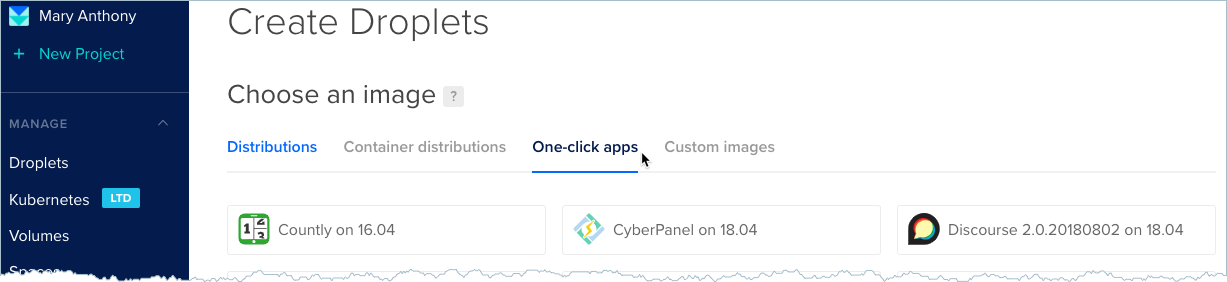
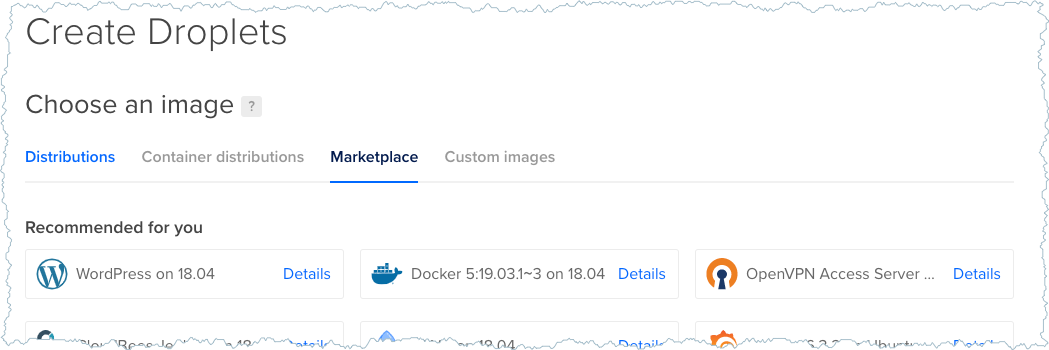
Added steps for granting read permission to space Carries and closes #426

diff --git a/_storage/digital-ocean-deploy.md b/_storage/digital-ocean-deploy.md
@@ -6,9 +6,9 @@ permalink: /:collection/:path.html
 # Configure a hub on DigitalOcean
 {:.no_toc}
 
-This teaches you how to run a Gaia storage hub on DigitalOcean (DO). DigitalOcean is an affordable and convenient cloud computing provider. This example uses DigitalOcean Spaces for file storage. DigitalOcean Spaces is equivalent to AWS's S3 file storage solution.
+This teaches you how to run a Gaia storage hub on DigitalOcean (DO). DigitalOcean is an affordable and convenient cloud computing provider. This example uses DigitalOcean Spaces for file storage. A space is equivalent to AWS's S3 file storage solution.
 
-DigitalOcean provides you with a compute machines known as a **Droplets** and  storage called a **Spaces**. You need both to run a Gaia hub. The Gaia hub setup you create here, requires get a Digital Droplet with Docker pre-installed and a 250 GB Space. Each run for $5/month or a total of $10/month.
+DigitalOcean provides you with a compute machines known as a **Droplets** and storage called a **Spaces**. You need both to run a Gaia hub. The Gaia hub setup you create here, requires get a Digital Droplet with Docker pre-installed and a 250 GB Space. Droplets and storage each run for $5/month or a total of $10/month.
 
 * TOC
 {:toc}
@@ -16,7 +16,7 @@ DigitalOcean provides you with a compute machines known as a **Droplets** and  s
 <div class="uk-card uk-card-default uk-card-body">
 <h5>Is this tutorial for you?</h5>
 
-<p>This documentation is appropriate for advanced power users who are familiar with command line tools, editing configuration files, and basic configuration of services of DNS or Nginx.  </p>
+<p>This documentation is appropriate for advanced power users who are familiar with command line tools, editing configuration files, and basic configuration of services of DNS or Nginx.</p>
 
 <p>If you are planning on running an <em>open-membership hub</em> or an <em>application-specific hub</em>, you'll should see <a href="hub-operation.html">the section on Hub Operation</a></p>.
 
@@ -24,14 +24,9 @@ DigitalOcean provides you with a compute machines known as a **Droplets** and  s
 
 ## Prerequisites you need
 
- You use DigitalOcean choose and configure assets for running droplets and spaces.  To enable this, you must be sure to complete a number of prerequisites.
-
-### Required prerequisites on DigitalOcean
+ You use DigitalOcean choose and configure assets for running droplets and spaces.  To enable this, you must be sure to complete the prerequisites in this section.
 
 You must create an account on <a href="https://digitalocean.com" target="\_blank">DigitalOcean</a>. DigitalOcean requires you to supply a credit card to create an account. You are only charged for the services you use the Gaia hub as of this writing should cost $10 USD a month.
-
-
-### Optional prerequisites for SSH users
 
 The easiest way to interact with your droplet is the DigitalOcean Console. Users who are comfortable using the secure shell (SSH) and private keys may prefer to open a local terminal on their home machine instead. To enable this, you should ensure you have the following prerequisites completed.
 
@@ -42,7 +37,6 @@ The easiest way to interact with your droplet is the DigitalOcean Console. Users
 * Create a <a href="https://www.digitalocean.com/docs/api/create-personal-access-token/" target="\_blank">personal access token in DigitalOcean</a>.
 
 * Install `doctl` which is the DigitalOcean command line tool. For information on installing these, see  which is the DigitalOcean command line utility. Check out their [installation instructions](https://github.com/digitalocean/doctl/blob/master/README.md#installing-doctl) to see how to install it on your computer.
-
 
 ## Task 1: Create a DigitalOcean space
 
@@ -73,8 +67,69 @@ In this task you create a **Space** which is where Gaia stores your files.
 
    After a moment, your Space is up and running.
 
+## Task 2: Enable File Listing and Set a Bucket Policy
 
-## Task 2: Create a DigitalOcean droplet
+
+On Digital Ocean, set **Enable File Listing**:
+
+1. Navigate to the **Spaces** tab.
+
+2. Select your newly created space and click **Settings**
+3. Set  **Enable File Listing** for your space.
+4. Press **Save**.
+
+On your local workstation, create a bucket policy to grant read permission on your space.
+
+1. On your local workstation, open a terminal.
+2. <a href="https://www.digitalocean.com/docs/spaces/resources/s3cmd/" target="_blank">Install and configure the <strong>s3cmd</strong></a>.
+3. In the current directory, use the `touch` command to create a file called `gaiahub-policy`.
+
+    ```
+    touch gaiahub-policy
+    ```
+
+4. Use your favorite editor to open the file.
+5. Add the following policy to the file.
+
+    ```json
+    {
+      "Version":"2012-10-17",
+      "Id": "read policy",
+      "Statement":[
+        {
+          "Sid":"PublicRead",
+          "Effect":"Allow",
+          "Principal": "*",
+          "Action": "s3:GetObject",
+          "Resource": "arn:aws:s3:::<SPACE_NAME>/*"
+        }
+      ]
+    }
+    ```
+6. Edit the `Resource` line and replace the `<SPACE_NAME>` with your space name from Digital Ocean.
+
+   For example, if your space is named `meepers`, after editing the line you would have:
+
+   ```
+   "Resource": "arn:aws:s3:::meepers/*"
+   ```
+
+   Be sure not to change any of the other fields, especially `Version`.
+
+7. Save and close the file.
+8. Use `s3cmd` to enact the policy.
+
+   ```
+   s3cmd setpolicy gaiahub-policy s3://<SPACE_NAME>
+   ```
+
+   Be sure to `SPACE_NAME` with the name of your space, for example:
+
+      ```
+   s3cmd setpolicy gaiahub-policy s3://meepers
+   ```
+
+## Task 3: Create a DigitalOcean droplet
 
 In this task, you add a droplet to your account. The droplet is a droplet is a cloud-based server you can use as a compute resource. This server is where you will run the Gaia Storage System service. The droplet you create will be an Ubuntu server with Docker pre-installed.
 
@@ -87,13 +142,11 @@ In this task, you add a droplet to your account. The droplet is a droplet is a c
 
    ![Create option](/storage/images/digital-droplet.png)
 
-4. Select the **One-click apps** tab.
+4. Select the **Marketplace** tab.
 
-   ![One-click app](/storage/images/digital-one-click.png)
+   ![Marketplace](/storage/images/digital-one-click.png)
 
 5. Select the **Docker** app from the options presented.
-
-   This will give you
 
 6.  Scroll down to the **Choose a size** section and use the left arrow to display and select the **$5/mo** image.
 
@@ -109,14 +162,14 @@ In this task, you add a droplet to your account. The droplet is a droplet is a c
 
 9. Scroll down to the **Finalize and create** section.
 
-10. **Choose a hostname** for you Give your Droplet such as `meepers-storage-hub`.
+10. **Choose a hostname** for your droplet such as `moxie-gaiahub`.
 
 11.  Review your choices then click **Create** to start your droplet running.
 
 At this point, your new droplet should appear in the list of resources on your DigitalOcean dashboard.
 
 
-## Task 3: Open a console on your Droplet
+## Task 4: Open a console on your Droplet
 
 A droplet console emulates the access you would have if you were sitting down with a keyboard and monitor attached to the actual server. In this section, you open a console on your droplet.
 
@@ -177,7 +230,7 @@ A droplet console emulates the access you would have if you were sitting down wi
 </div>
 
 
-## Task 4: Create a space key
+## Task 5: Create a space key
 
 1. In the DigitalOcean dashboard, go to the **API** page.
 2. Scroll to the **Spaces Access Keys** section.
@@ -195,13 +248,13 @@ A droplet console emulates the access you would have if you were sitting down wi
 
     ![Access key](/storage/images/space-access-key.png)
 
-6. Save your secrete in a secure password manager.
+6. Save your secret in a secure password manager.
 
     You should never share your secret.
 
 7. Leave the page up with your key and secret and go to your open console.
 
-## Task 5: Get the Gaia code and configure your server
+## Task 6: Get the Gaia code and configure your server
 
 You should have the console open as `root` on your Droplet. In this section, you get the Gaia code and configure the Gaia service.
 
@@ -235,7 +288,7 @@ You should have the console open as `root` on your Droplet. In this section, you
 3. Copy the configuration sample to a new `config.json` file.
 
     ```
-    cp config.sample.json config.json
+    cp config.do.sample.json config.json
     ```
 
 4. Edit your new `config.json` file with `vi` or `vim`.
@@ -243,32 +296,48 @@ You should have the console open as `root` on your Droplet. In this section, you
    ```
    vi config.json
    ```
+
    You now need to edit this JSON file to have it store files on your DigitalOcean space.
 
-5. Set the `driver` to `aws`.
+   ```
+   {
+    "serverName": "DROPLET_NAME",
+    "port": 4000,
+    "driver": "aws",
+    "readURL": "SPACE_URL",
+    "proofsConfig": {
+      "proofsRequired": 0
+    },
+    "pageSize": 20,
+    "bucket": "SPACE_NAME",
+    "awsCredentials": {
+       "endpoint": "SPACE_LOCATION",
+       "accessKeyId": "YOUR_ACCESS_KEY",
+       "secretAccessKey": ""
+    },
+    "argsTransport": {
+      "level": "debug",
+      "handleExceptions": true,
+      "stringify": true,
+      "timestamp": true,
+      "colorize": false,
+      "json": true
+    }
+  }
+  ```
 
-   The DigitalOcean space API exactly mimics the S3 API. Since Gaia doesn't have a DigitalOcean driver, you can just use the `aws` driver with some special configuration.
+   You'll find that the `driver` is set to `aws`. The DigitalOcean space API exactly mimics the S3 API. Since Gaia doesn't have a DigitalOcean driver, you can just use the `aws` driver with some special configuration.
 
-6. Set the `bucket` to the name of the DigitalOcean space you just created.
+5. Set the `serverName` to the droplet you just created.
+6. Set the `readURL` to the URL of the DigitalOcean space you just created.
+
+   If your space URL called `https://meepers-hub-space.sfo2.digitaloceanspaces.com `, the `readURL` name is `https://meepers-hub-space.sfo2.digitaloceanspaces.com`.
+7. Set the `bucket` to the name of the DigitalOcean space you just created.
 
    If your space is called `meepers-hub-space`, the `bucket` value is `meepers-hub-space`.
 
-6. Set the `readURL` to the URL of the DigitalOcean space you just created.
-
-  If your space URL called `https://meepers-hub-space.sfo2.digitaloceanspaces.com `, the `readURL` name is `https://meepers-hub-space.sfo2.digitaloceanspaces.com`.
-
-
-7. Add an `endpoint` value to the `awsCredentials` section.
-
-   ```json
-   "awsCredentials": {
-      "accessKeyId": "",
-      "secretAccessKey": "",
-      "endpoint": ""
-   },
-   ```
-8. Go back to your DigitalOcean dashboard open to your space key.
-9. Copy the **Key** and paste it into the `accessKeyId` value in the `config.json` file.
+8.  Go back to your DigitalOcean dashboard open to your space key.
+9.  Copy the **Key** and paste it into the `accessKeyId` value in the `config.json` file.
 10. Copy the **Secret** and paste it into the `secretAccessKey` value in the `config.json` file.
 11. In the DigitalOcean dashboard, choose the Spaces page.
 12. Copy the section of your space URL that follows the name.
@@ -279,40 +348,30 @@ You should have the console open as `root` on your Droplet. In this section, you
 
 13. Paste the string you copied into the `endpoint` value.
 
-14. Change the `proofsRequired` value to the number `0` (zero).
+14. Ensure the `proofsRequired` value is set to the number `0` (zero).
 
     This will allow Blockstack user to write to your Gaia hub, without any social proofs required. You can change this later on, and do other things to lock-down this Gaia hub to just yourself, but that is outside the scope of this document.
 
-    At this point, the json.config file should be completed and appear similar to the following &&mdash;; but with your values.
+    At this point, the `json.config` file should be completed and appear similar to the following &&mdash;; but with your values.
 
     ```json
     {
-      "servername": "",
-      "port": 3000,
+      "serverName": "moxie-gaiahub",
+      "port": 4000,
       "driver": "aws",
-      "bucket": "meepers-hub-space",
       "readURL": "https://meepers-hub-space.sfo2.digitaloceanspaces.com",
-      "awsCredentials": {
-        "accessKeyId": "W7GBQGIUWDWKA6KAGL56",
-        "secretAccessKey": "O6hBYRPCeRmE0d9lr3Frtc345QsWt3l+mrDgvrVT9oE",
-        "endpoint": "sfo2.digitaloceanspaces.com "
-      },
-
       "proofsConfig": {
-        "proofsRequired" : 0
+          "proofsRequired": 0
       },
-
-      "azCredentials": {
-        "accountName": "",
-        "accountKey": ""
+      "pageSize": 20,
+      "bucket": "meepers-hub-space",
+      "awsCredentials": {
+        "endpoint": "sfo2.digitaloceanspaces.com",
+        "accessKeyId": "fb3J7AT/PGMGMPOA86EFLpx8IjGZQib99eXWjVR+QK0",
[1 lines of base64/hex data omitted]
       },
-
-      "gcCredentials": {
-        "projectId": ""
-      },
-
       "argsTransport": {
-        "level": "warn",
+        "level": "debug",
         "handleExceptions": true,
         "stringify": true,
         "timestamp": true,
@@ -322,11 +381,11 @@ You should have the console open as `root` on your Droplet. In this section, you
     }
     ```
 
-15. Save and close the `vim` editor.
+15. Save your config file and close the `vim` editor.
 
     The system returns you back to the prompt.
 
-## Task 6: Run the Gaia image with Docker
+## Task 7: Run the Gaia image with Docker
 
 While your console is still in the the `gaia/hub` folder, build the `gaia.hub` image.
 
@@ -389,7 +448,7 @@ While your console is still in the the `gaia/hub` folder, build the `gaia.hub` i
 
 At this point, your Gaia service is up and running. You can run `docker logs MY_CONTAINER_ID` with your running image's ID to see the logs of this server at any time.
 
-## Task 7: Set up an Nginx reverse proxy
+## Task 8: Set up an Nginx reverse proxy
 
 In this task, you set up a simple Nginx reverse proxy to serve your Docker container through a public URL. You do this from the droplet console command line.
 
@@ -416,6 +475,17 @@ In this task, you set up a simple Nginx reverse proxy to serve your Docker conta
           proxy_set_header Connection 'upgrade';
           proxy_set_header Host $host;
           proxy_cache_bypass $http_upgrade;
+
+          if ($request_method = 'OPTIONS') {
+                    more_set_headers   'Access-Control-Allow-Origin: *';
+                    more_set_headers   'Access-Control-Allow-Methods: POST, OPTIONS, DELETE';
+                    more_set_headers   'Access-Control-Allow-Headers: Origin, X-Requested-With, Content-Type, authorization';
+                    more_set_headers   'Access-Control-Max-Age: 21600';
+                    more_set_headers   'Content-Type: text/plain charset=UTF-8';
+                    more_set_headers   'Content-Length: 0';
+                    return             204;
+          }
+          more_set_headers    'Access-Control-Allow-Origin: *';
     }
     ```
 
@@ -442,7 +512,7 @@ In this task, you set up a simple Nginx reverse proxy to serve your Docker conta
     ufw allow 80
     ```
 
-## Task 8: Test your Gaia server
+## Task 9: Test your Gaia server
 
 Now, you are ready to test your Gaia server and make sure it is up and running.
 
@@ -463,8 +533,7 @@ Now, you are ready to test your Gaia server and make sure it is up and running.
     `https://meepers-hub-space.s3.amazonaws.com/`.
 
 
-## Task 9: Configure a domain name
-
+## Task 10: Configure a domain name
 
 At this point, you can point a domain to your Gaia hub. Although it's not required, it is highly recommended. If you use a domain, you can migrate your Droplet to a different server (or even provider such as Azure or AWS) at any time, and still access it through the domain URL. Simply point your domain at the IP address for your Droplet. Use an `A Record` DNS type.
 
@@ -493,7 +562,7 @@ These instructions assume you have already created a free <a href="https://www.f
    ![Domain test](/storage/images/domain-test.png)
 
 
-## Task 10: Set up SSL
+## Task 11: Set up SSL
 
 If you've configured a domain to point to your Gaia hub, then it's highly
 recommended that you set up SSL to connect to your hub securely. DigitalOcean
